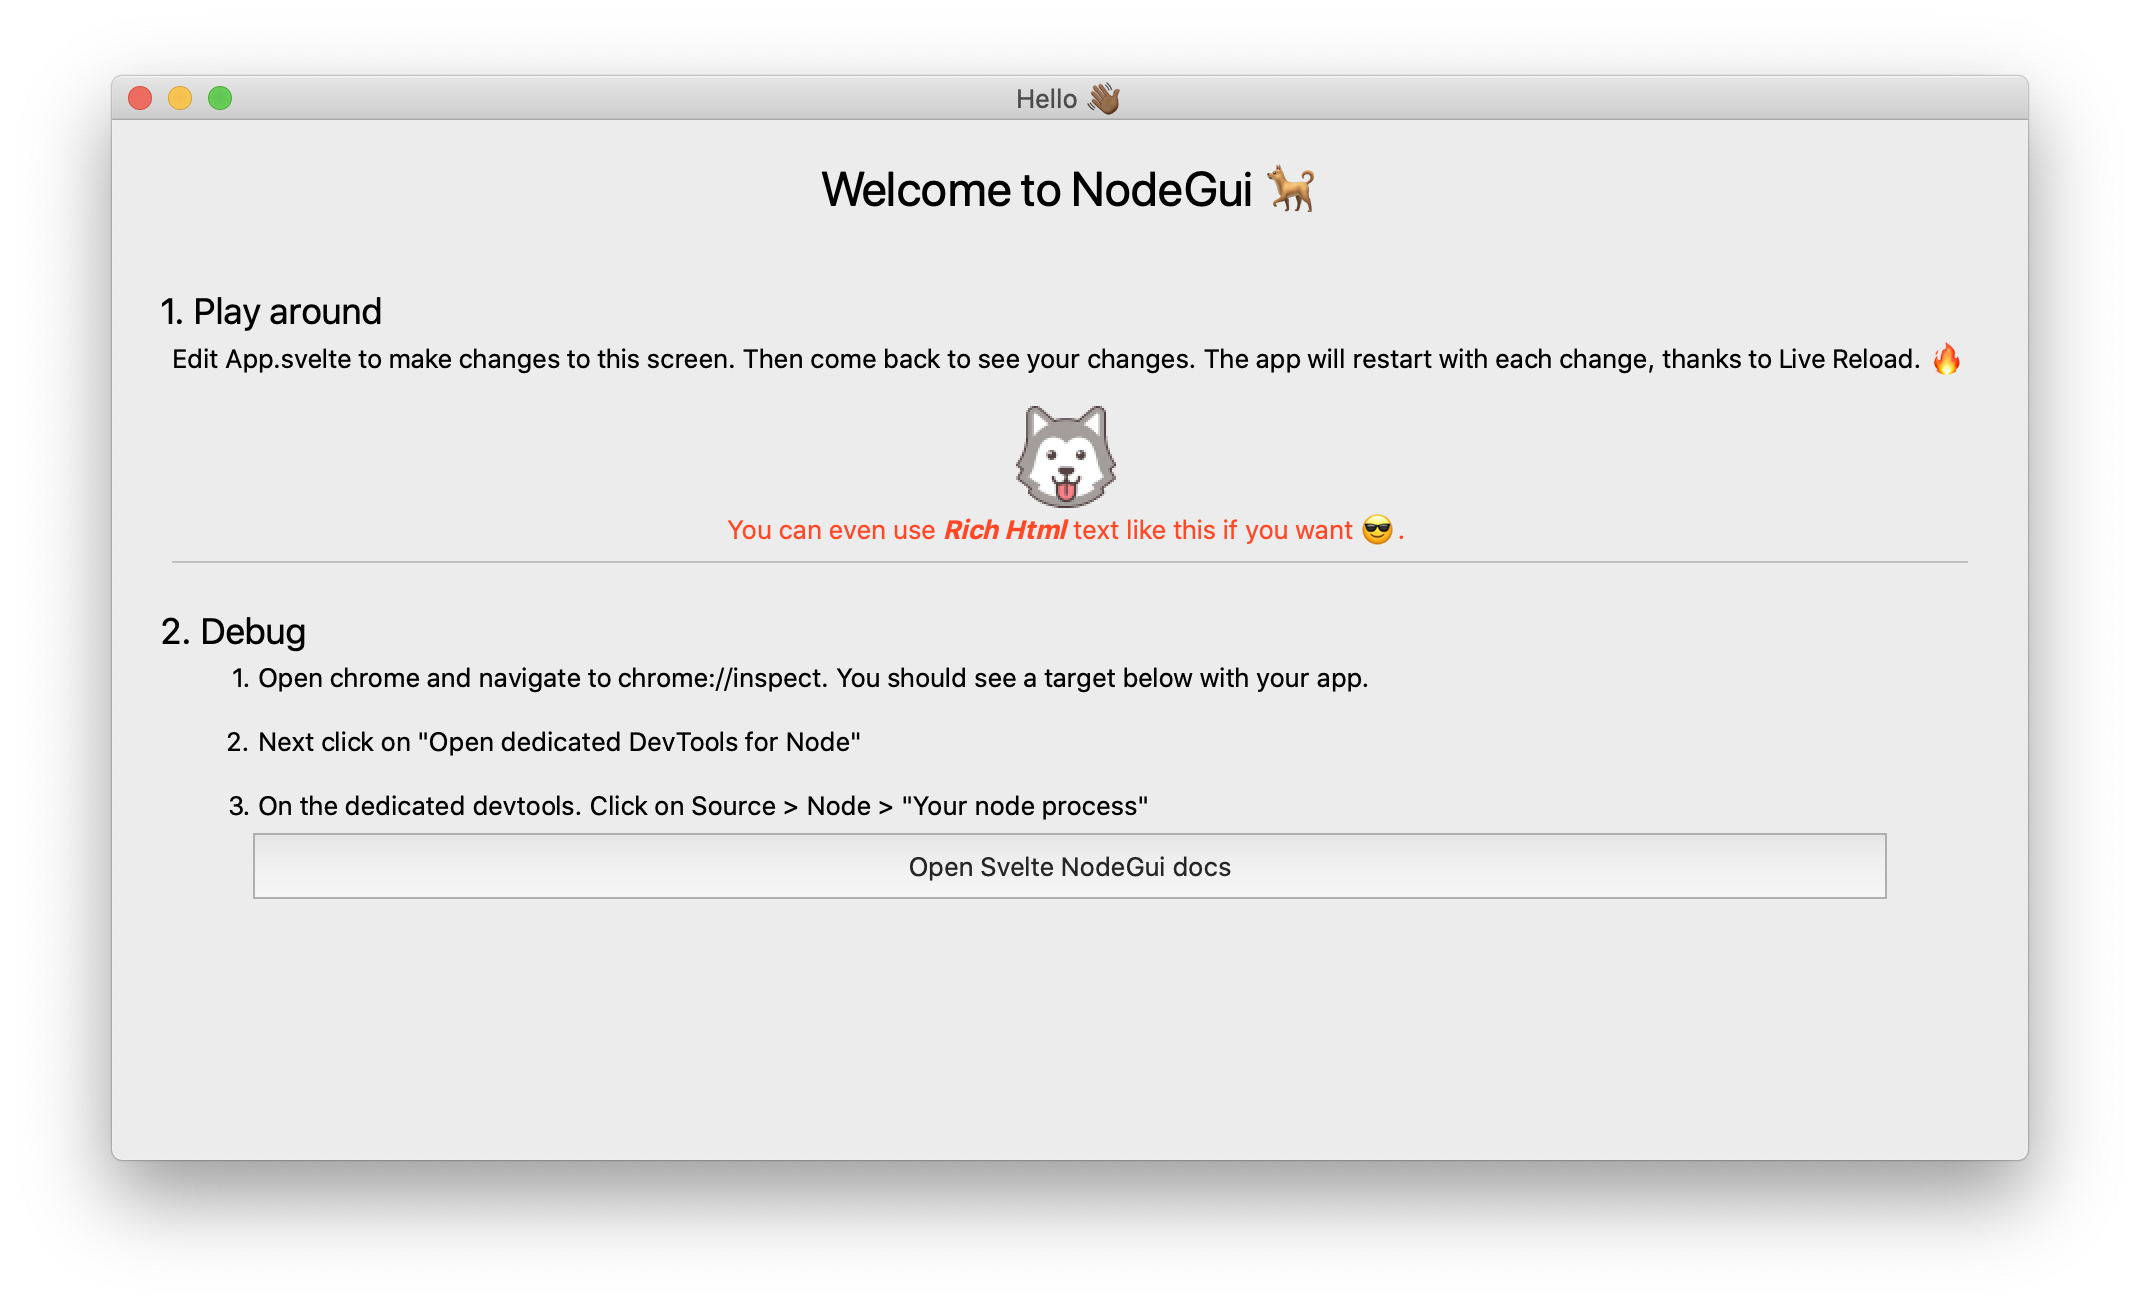
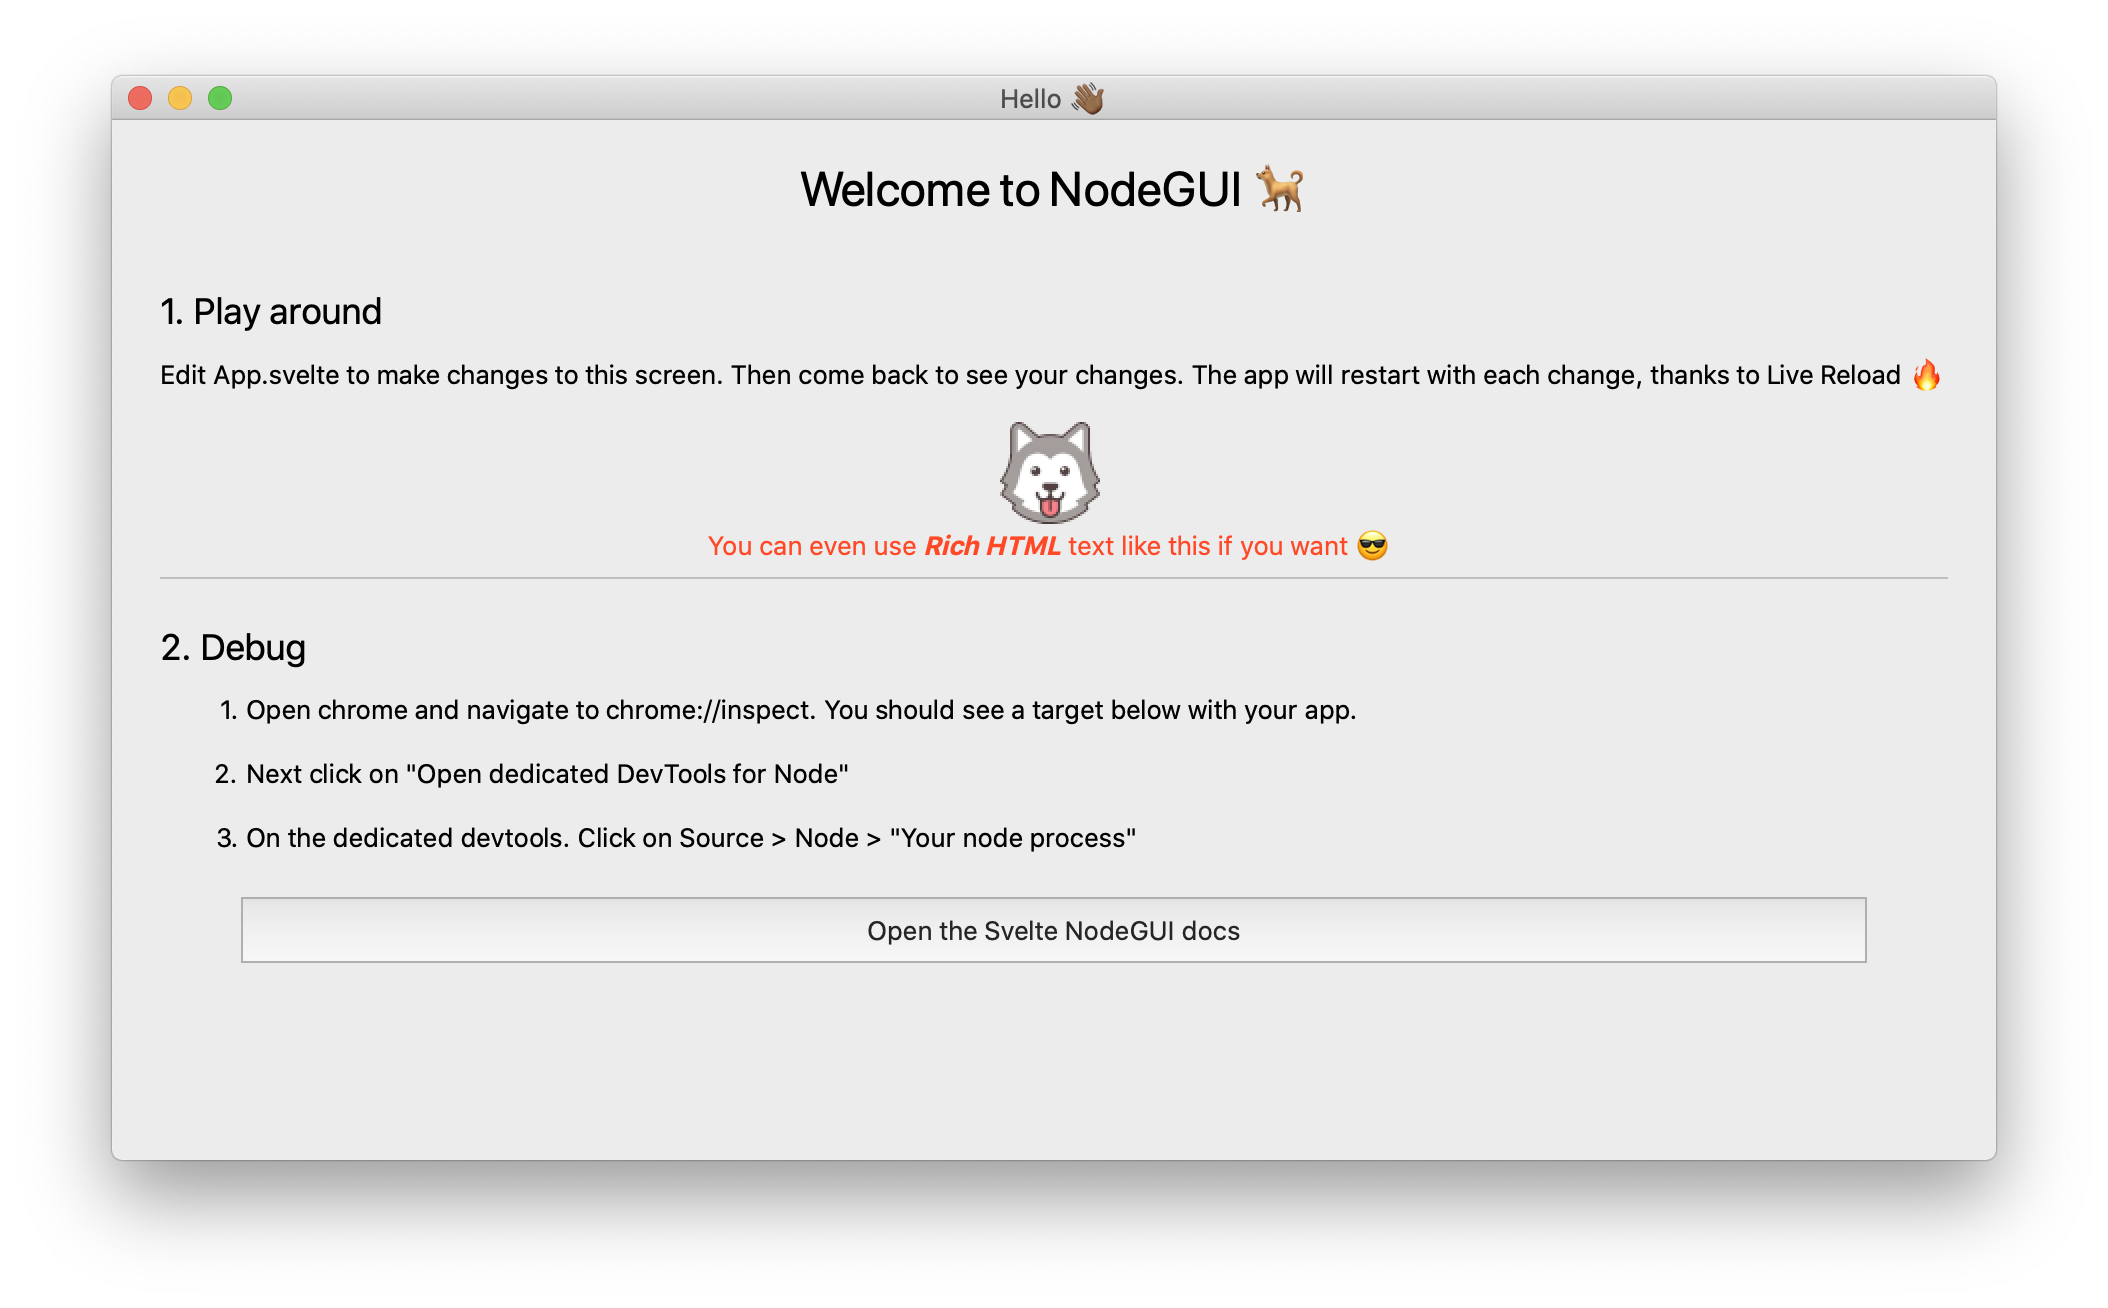
Edit demo text

diff --git a/src/components/StepOne.svelte b/src/components/StepOne.svelte
@@ -4,9 +4,9 @@
 
 <!-- TODO: Incorporate @nodegui/svelte-nodegui-preprocessor so that we can remove this namespace -->
 <svelte:options namespace="foreign"/>
-<view style="margin-horizontal: 20px; padding-horizontal: 10px;">
+<view style="margin-top: 8px; margin-horizontal: 16px; padding-horizontal: 8px;">
     <text wordWrap={true}>
-        Edit App.svelte to make changes to this screen. Then come back to see your changes. The app will restart with each change, thanks to Live Reload. 🔥
+        Edit App.svelte to make changes to this screen. Then come back to see your changes. The app will restart with each change, thanks to Live Reload 🔥
     </text>
     <text>
       {`
@@ -14,7 +14,7 @@
           <center>
             <img src="${dogImg}" alt="doggy" />  
           </center>
-          <center>You can even use <i><strong>Rich Html</strong></i> text like this if you want 😎.</center>
+          <center>You can even use <i><strong>Rich HTML</strong></i> text like this if you want 😎</center>
         </p>
         <hr />
       `}

diff --git a/src/components/StepTwo.svelte b/src/components/StepTwo.svelte
@@ -8,8 +8,8 @@
 
 <!-- TODO: Incorporate @nodegui/svelte-nodegui-preprocessor so that we can remove this namespace -->
 <svelte:options namespace="foreign"/>
-<view style="margin-horizontal: 20px; padding-horizontal: 10px;">
-    <text style="padding-right: 20px;" wordWrap={true}>
+<view style="margin-top: 8px; margin-horizontal: 16px; padding-horizontal: 8px;">
+    <text style="margin-bottom: 8px;" wordWrap={true}>
         {`
             <ol>
                 <li>
@@ -17,7 +17,7 @@
                 </li>
                 <br/>
                     <li>
-                        Next click on  "Open dedicated DevTools for Node"
+                        Next click on "Open dedicated DevTools for Node"
                     </li>
                     <br/>
                 <li>
@@ -30,6 +30,6 @@
       style="margin-horizontal: 20px; height: 40px;"
       on:clicked={onClicked}
     >
-        Open Svelte NodeGui docs
+        Open the Svelte NodeGUI docs
     </button>
 </view>

diff --git a/src/App.svelte b/src/App.svelte
@@ -34,7 +34,7 @@
     windowTitle="Hello 👋🏽"
 >
     <view style="flex: 1;">
-        <text id="welcome-text">Welcome to NodeGui 🐕</text>
+        <text id="welcome-text">Welcome to NodeGUI 🐕</text>
         <text id="step-1">1. Play around</text>
         <StepOne />
         <text id="step-2">2. Debug</text>
